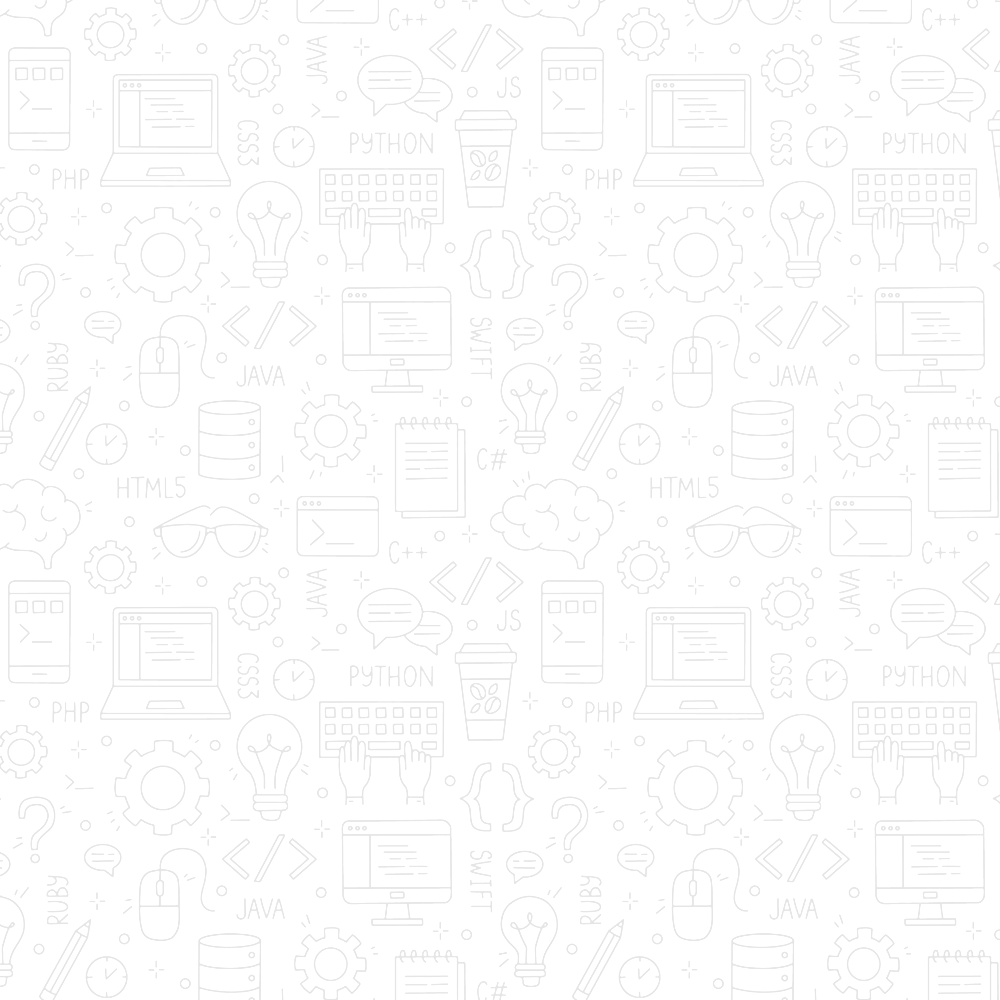
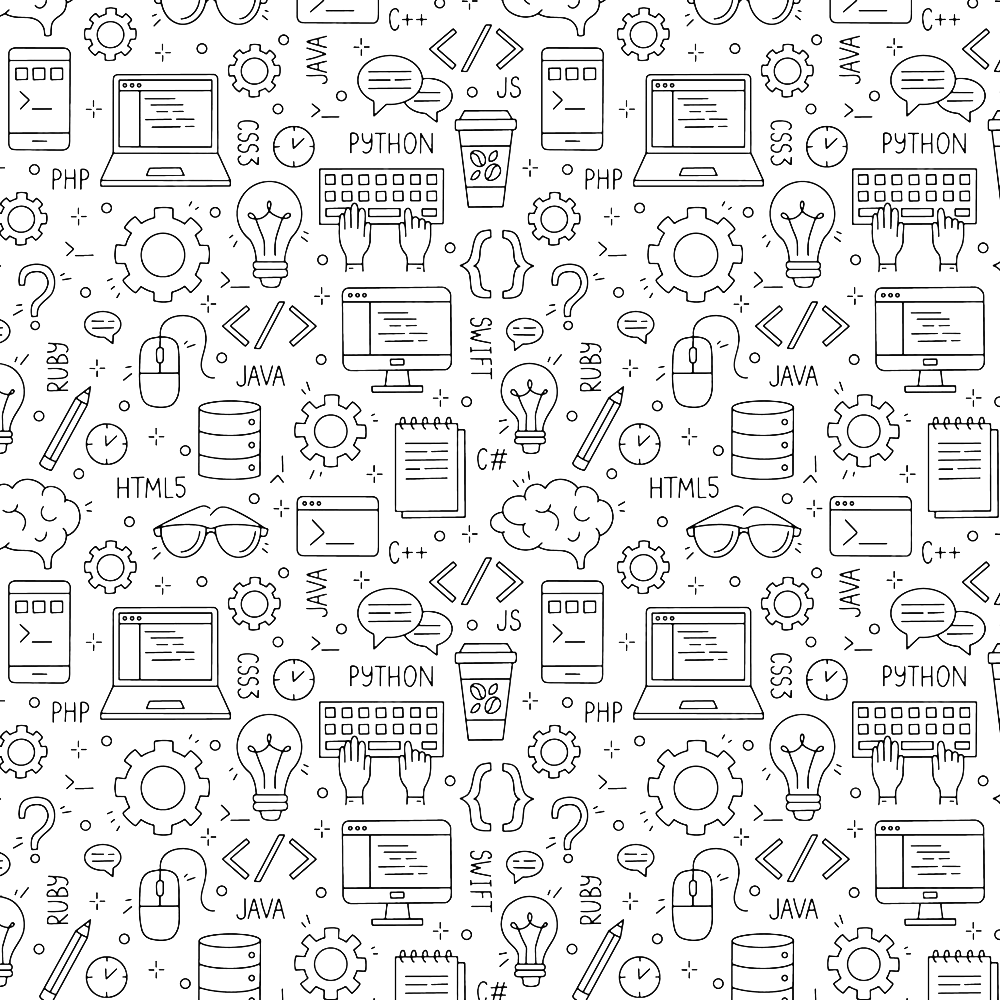
fixes

diff --git a/pages/home_page/homeFX.css b/pages/home_page/homeFX.css
@@ -3,7 +3,7 @@
 :root {
     /*pixel values*/
 	--corner_radius: 20px;
-	--blur_intensity: 25px;
+	--blur_intensity: 15px;
     --blur_intensity2x: 50px;
 
     --mobile_default_fontsize: 0.9rem;
@@ -52,7 +52,7 @@ body{
 }
 
 #mainContainer{
-    background-color: var(--accent);
+    background-image: url(../../images/page_background.png);
     font-size: var(--mobile_default_fontsize);
 }
 
@@ -84,7 +84,7 @@ a {
     font-size: var(--l3Header);
     font-weight: bold;
     box-sizing: border-box;
-    padding: 10px;
+    margin: 0 10px;
     border-bottom: solid 2px rgba(0, 0, 0, 0.1);
 }
 
@@ -261,8 +261,7 @@ a {
         width: 100%;
         box-sizing: border-box;
         padding: 5px 5px 30px 5px;
-        background-image: url(../../images/page_background.png);
-        background-blend-mode: lighten;
+        background-color: rgba(230, 218, 213, 0.96);
         
         display: grid;
         grid-auto-flow: row;
@@ -277,7 +276,7 @@ a {
 
         box-sizing: border-box;
         margin-top: 30px;
-        padding: 10px;
+        padding: 20px 10px;
         
         display: grid;
         grid-auto-flow: row;
@@ -374,7 +373,7 @@ a {
     #name_title{
         grid-column: 1;
         grid-row: 1;
-        font-size: var(--l2Header);
+        font-size: var(--l1Header);
         font-weight: bold;
         justify-self: start;
 
@@ -455,7 +454,7 @@ a {
 
         display: grid;
         box-sizing: border-box;
-        padding: 60px 20px 10px 20px;
+        padding: 40px 20px 20px 20px;
     }
 
     #contact_info_container{
@@ -574,6 +573,10 @@ a {
 
     #menu_title{
         margin-top: 0;
+    }
+
+    #name_title{
+        font-size: var(--l2Header);
     }
 
     #project_cards_container{
